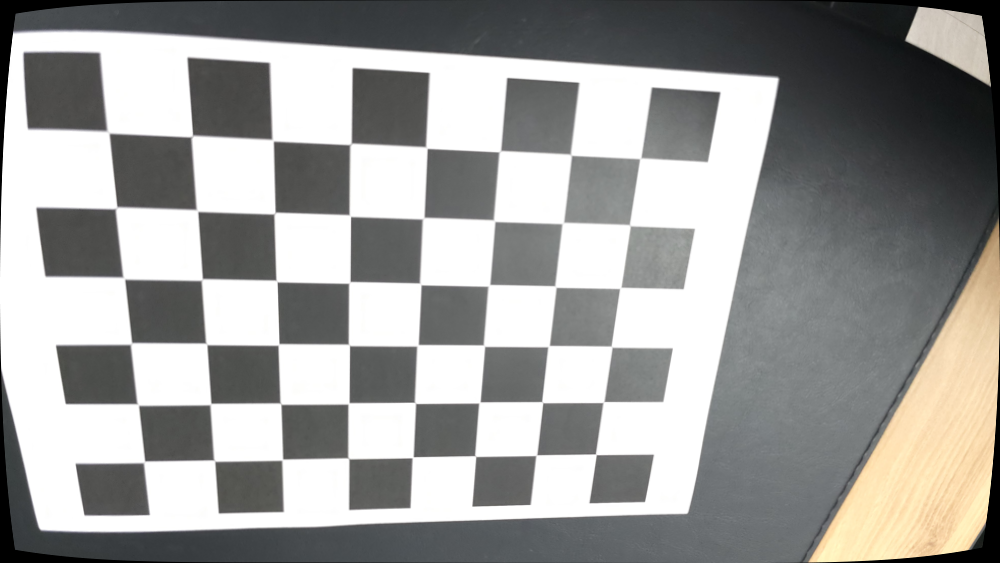
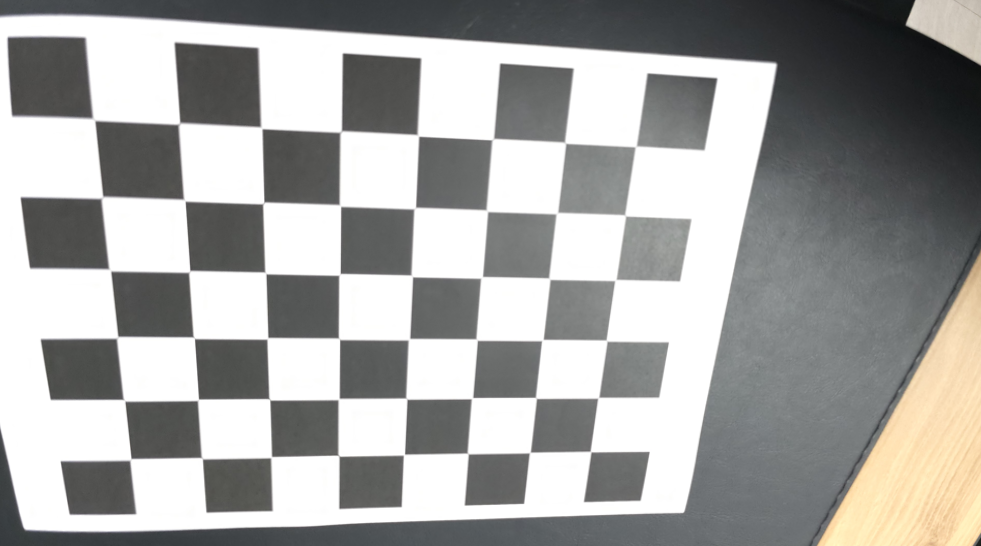
updae read me

diff --git a/main.py b/main.py
@@ -7,7 +7,7 @@ rows = 6
 cols = 8
 
 
-criteria = (cv2.TERM_CRITERIA_MAX_ITER + cv2.TERM_CRITERIA_EPS, 28, 0.001)
+criteria = (cv2.TERM_CRITERIA_MAX_ITER + cv2.TERM_CRITERIA_EPS, 30, 0.001)
 objectPoints = np.zeros((rows * cols, 3), np.float32)
 objectPoints[:, :2] = np.mgrid[0:rows, 0:cols].T.reshape(-1, 2)
 
@@ -57,12 +57,12 @@ for i,path in enumerate(glob.glob('dataset/cam1/*.png')):
     h, w = img.shape[:2]
 
     # Obtain the new camera matrix and undistort the image
-    newCameraMtx, roi = cv2.getOptimalNewCameraMatrix(mtx, dist, (w, h), 1, (w, h))
+    newCameraMtx, roi = cv2.getOptimalNewCameraMatrix(mtx, dist, (w, h), 0.5, (w, h))
     undistortedImg = cv2.undistort(img, mtx, dist, None, newCameraMtx)
 
     # Crop the undistorted image
-    # x, y, w, h = roi
-    # undistortedImg = undistortedImg[y:y + h, x:x + w]
+    x, y, w, h = roi
+    undistortedImg = undistortedImg[y:y + h, x:x + w]
     # save image 
     name = path.split('/')[-1]
     cv2.imwrite(f'output/cam1/undistorted_{name}.png', undistortedImg)

diff --git a/README.md b/README.md
@@ -1,16 +1,16 @@
-# Camera Calibration
+# Camera Calibration with Checkerboard and AprilTag
 
 *LiengHongky Oct 2024*
 
 ## Content:
 
-1. CalibrationontheCAM1(Checkerboard)
-2. CalibrationontheCAM2(AprilTag)
-3. Github:https://github.com/lienghongky/camera_calibration
+1. Calibration on theCAM1(Checkerboard)
+2. Calibration on theCAM2(AprilTag)
+3. Github: https://github.com/lienghongky/camera_calibration
 
-## 1. CalibrationontheCAM1(Checkerboard)
+## 1. Calibration on the CAM1(Checkerboard)
 
-#### DataInfo:
+#### Data Info:
 
 - Image type : Checkerboard
 - Size: 28mm x 28mm
@@ -64,7 +64,7 @@ Intrinsic matrix:
 		         [  0.           0.           1.        ]]
 ```
 
-**- Outputfiles:**
+**- Output files:**
 - /output/cam1/0001.png ....
 - /output/cam1/calib.npz
 - /output/cam1/undistorted.png
@@ -73,29 +73,29 @@ Intrinsic matrix:
 
 
 
-## 2. CalibrationontheCAM2(AprilTag)
+## 2. Calibration on the CAM2 (AprilTag)
 
-#### DataInfo:
+#### Data Info:
 
 - Image type : AprilTag
 - Tagsize: 21mm
 - Space: 6mm
 - Tag Spacing (ratio): 6/21 = 0.
 
-## 2.1 BuildingROS-KalibrDockerImages
+## 2.1 Building ROS-Kalibr Docker Images
 
-#### Makesuredockerisinstalled
+*Make sure docker is installed*
 
-#### Step1: clonekalibrrepo
+#### Step1: clone kalibr repo
 ```
 git clone https://github.com/ethz-asl/kalibr.git
 cd kalibr
 ```
-#### Step2: builddockerimage
+#### Step2: build docker image
 
 ```dockerbuild -t kalibr -f Dockerfile_ros1_20_ . ```
 
-#### Buildingcompletedwegotanewimagenamekalibr:
+#### Building completed we got a new image name kalibr:
 
 ```
 (base)user:kalibrlienghongky$dockerbuild-tkalibr-fDockerfile_ros1_20_04.
@@ -116,10 +116,10 @@ cd kalibr
 =>=>namingtodocker.io/library/kalibr 0 .0s
 Viewbuilddetails:docker-desktop://dashboard/build/desktop-linux/desktop-linux/hu4p6t911kpuqx02pbahucwwd
 (base)user$
-```
-## 2.2Spinupcontainer:
+``` 
+## 2.2 Spin up container:
 
-#### Step1:Runthecontainerwithimagewejustbuilt
+#### Step1: Run the container with image we just built
 
 ```
 FOLDER=/camera_calibration# change thisto rootdirectory of solution
@@ -131,15 +131,15 @@ dockerrun -it
  -v"$FOLDER:/data" kalibr
 ```
 
-#### Step2:LoadROSenvironmentvariables.
+#### Step2:Load ROS environment variables.
 
 ``` 
 sourcedevel/setup.bash 
 ```
 
-## 2.3CameraCalibration
+## 2.3 Camera Calibration
 
-#### Step1:createbagfromgivenimages
+#### Step1: create bag from given images
 
 - AprilTage images located at _/data/dataset/cam2/..._
 
@@ -152,7 +152,7 @@ rosrun kalibrkalibr_bagcreater --folder dataset/ --output-bag cam2.bag
 - topic:/cam2/image_raw, /cam2/image_raw
 
 
-#### Step2:create conf file and run calibration
+#### Step2: create conf file and run calibration
 
 **_- /conf/aprilgrid.yaml_**
 ```#yaml
@@ -162,7 +162,7 @@ rosrun kalibrkalibr_bagcreater --folder dataset/ --output-bag cam2.bag
     tagSize:0.021#Thesizeofasingletaginmeters(e.g.,88mm)
     tagSpacing:0.28571#Thespacebetweentagsasafractionoftag_size
 ```
-#### Step3:Run kalibr command
+#### Step3: Run kalibr command
 ```
 rosrun kalibr kalibr_calibrate_cameras
 --bag ./output/cam2/cam2.bag
